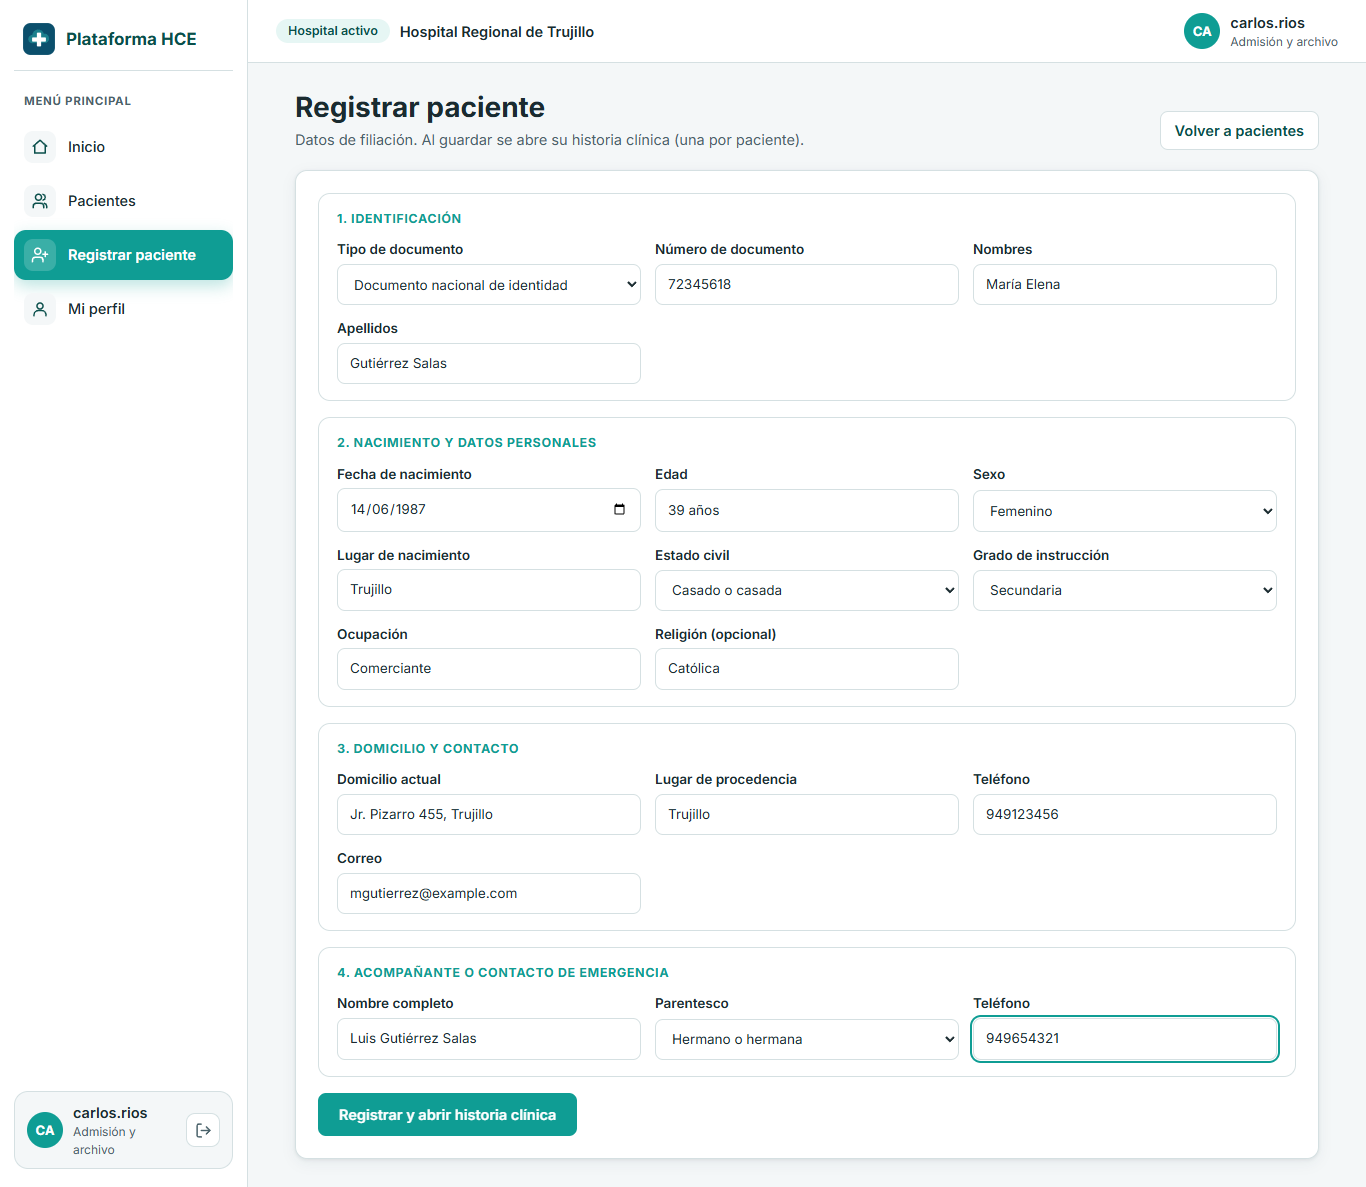
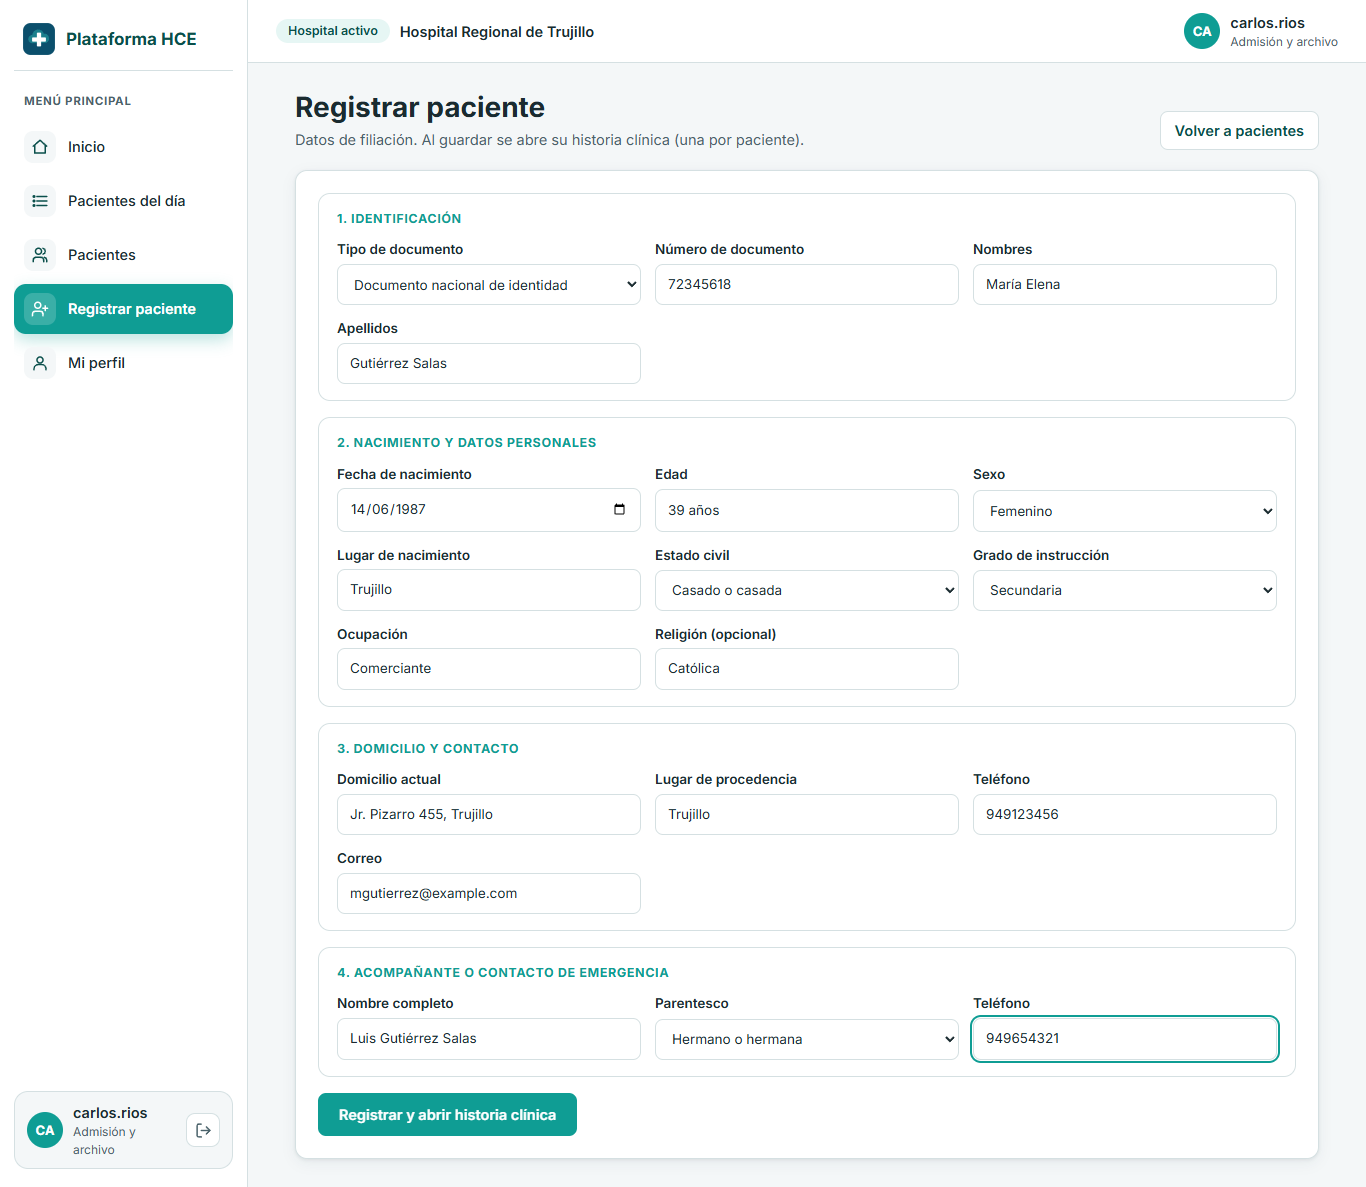
Plan v3 2.2: cola de pacientes por rol, pantalla P-09 con la emergencia primero (RF-22; CU-20, CU-21; RN-13, RN-06)
- /cola/: cifras por estado, pestanas, busqueda, orden con la emergencia primero, tiempo de espera y acciones por rol.
- Menu: Pacientes del dia (admision) y Cola de pacientes (enfermeria y medico); el Inicio de esos roles muestra la cola.
- Enfermeria toma al paciente desde la cola; admision cancela antes de que lo tomen.
- e2e/recorrido.mjs pasos 4 y 5 (verifica que la emergencia va primero).

Changed region(s): [[0.0, 0.1559, 0.1845, 0.3117]]

diff --git a/src/main/resources/static/cola/cola.js b/src/main/resources/static/cola/cola.js
@@ -1,0 +1,160 @@
+/* P-09 Cola de pacientes del dia (RF-22; CU-20, CU-21; RN-13, RN-06). Referencia 05.
+   El servidor decide que estados ve cada rol y el orden (emergencia primero, luego por llegada).
+   Las acciones solo llaman al servidor; el orden de los estados lo impone el dominio (RN-13). */
+const $ = (id) => document.getElementById(id);
+const ESTADOS = {
+  ADMITIDO: 'Admitidos', EN_ENFERMERIA: 'En enfermería', LISTO_PARA_ATENCION: 'Listos para atención',
+  EN_ATENCION: 'En atención', ATENCION_CERRADA: 'Atendidos', CANCELADO: 'Cancelados'
+};
+const POR_ROL = {
+  ADMISION: { titulo: 'Pacientes del día', subtitulo: 'Todos los admitidos hoy y en qué paso van.',
+    estados: ['ADMITIDO', 'EN_ENFERMERIA', 'LISTO_PARA_ATENCION', 'EN_ATENCION', 'ATENCION_CERRADA'] },
+  ENFERMERIA: { titulo: 'Cola de enfermería', subtitulo: 'Toma al siguiente paciente y registra sus signos vitales. La emergencia va primero.',
+    estados: ['ADMITIDO', 'EN_ENFERMERIA'] },
+  MEDICO: { titulo: 'Cola de atención', subtitulo: 'Pacientes listos para ser atendidos. La emergencia va primero.',
+    estados: ['LISTO_PARA_ATENCION', 'EN_ATENCION'] }
+};
+let sesion = null;
+let cola = [];
+let filtro = 'todos';
+
+function normalizar(t) { return String(t || '').normalize('NFD').replace(/[̀-ͯ]/g, '').toLowerCase(); }
+
+function minutosDesde(fecha) {
+  const m = Math.max(0, Math.round((Date.now() - new Date(fecha).getTime()) / 60000));
+  if (m < 60) return m + ' min';
+  return Math.floor(m / 60) + ' h ' + (m % 60) + ' min';
+}
+
+function hora(fecha) {
+  return new Date(fecha).toLocaleTimeString('es-PE', { hour: '2-digit', minute: '2-digit' });
+}
+
+async function accion(ruta, mensajeOk, despues) {
+  const r = await HCE.api(ruta, { method: 'POST' });
+  if (!r.ok) { HCE.mostrar($('mensaje'), (r.cuerpo && r.cuerpo.mensaje) || 'No se pudo completar la acción.', 'error'); return; }
+  HCE.mostrar($('mensaje'), mensajeOk, 'ok');
+  if (despues) { despues(r.cuerpo); return; }
+  await cargar();
+}
+
+function boton(texto, clase, alHacerClic) {
+  const b = HCE.el('button', 'hce-boton pequeno ' + clase, texto);
+  b.type = 'button';
+  b.addEventListener('click', alHacerClic);
+  return b;
+}
+
+function enlace(texto, clase, href) {
+  const a = HCE.el('a', 'hce-boton pequeno ' + clase, texto);
+  a.href = href;
+  return a;
+}
+
+function accionesDe(a) {
+  const g = HCE.el('div', 'hce-acciones-fila');
+  const historia = '/historia/?id=' + encodeURIComponent(a.idHistoriaClinica) + '&admision=' + encodeURIComponent(a.id);
+  const rol = sesion.rolCodigo;
+  if (rol === 'ENFERMERIA' && a.estado === 'ADMITIDO') {
+    g.append(boton('Tomar paciente', 'primario', () => accion('/api/admisiones/' + a.id + '/toma',
+      a.paciente + ' pasó a enfermería.', () => { window.location.href = historia; })));
+  } else if (rol === 'ENFERMERIA' && a.estado === 'EN_ENFERMERIA') {
+    g.append(enlace('Signos vitales', 'primario', historia));
+  } else if (rol === 'MEDICO' && (a.estado === 'LISTO_PARA_ATENCION' || a.estado === 'EN_ATENCION')) {
+    g.append(enlace('Ver historia', 'primario', historia));
+  } else if (rol === 'ADMISION' && a.estado === 'ADMITIDO') {
+    g.append(boton('Cancelar', 'claro', async () => {
+      const ok = await HCE.confirmar('¿Cancelar la admisión de ' + a.paciente + '?',
+        'Solo se puede cancelar antes de que enfermería lo tome. Queda registrado.', 'Sí, cancelar');
+      if (ok) accion('/api/admisiones/' + a.id + '/cancelacion', 'Se canceló la admisión de ' + a.paciente + '.');
+    }));
+  }
+  return g;
+}
+
+function dibujarCifras(config) {
+  const cont = $('cifras');
+  cont.replaceChildren();
+  const clases = { ADMITIDO: '', EN_ENFERMERIA: 'alerta', LISTO_PARA_ATENCION: 'ok', EN_ATENCION: '', ATENCION_CERRADA: '' };
+  config.estados.forEach(e => {
+    const t = HCE.el('article', 'hce-cifra-estado ' + (clases[e] || ''));
+    t.append(HCE.el('div', 'titulo', ESTADOS[e]), HCE.el('div', 'valor', String(cola.filter(a => a.estado === e).length)),
+      HCE.el('div', 'nota', e === 'ADMITIDO' ? 'Esperan a enfermería' : e === 'LISTO_PARA_ATENCION' ? 'Esperan al médico' : 'Hoy'));
+    cont.append(t);
+  });
+  const emergencias = cola.filter(a => a.tipoAtencion === 'EMERGENCIA' && a.estado !== 'ATENCION_CERRADA' && a.estado !== 'CANCELADO').length;
+  const t = HCE.el('article', 'hce-cifra-estado error');
+  t.append(HCE.el('div', 'titulo', 'Emergencias'), HCE.el('div', 'valor', String(emergencias)), HCE.el('div', 'nota', 'En espera o en atención'));
+  cont.append(t);
+  const p = $('pestanas');
+  p.replaceChildren();
+  [{ clave: 'todos', texto: 'Todos' }].concat(config.estados.map(e => ({ clave: e, texto: ESTADOS[e] }))).forEach(f => {
+    const b = HCE.el('button', 'hce-pestana' + (f.clave === filtro ? ' activa' : ''));
+    b.type = 'button';
+    const n = f.clave === 'todos' ? cola.length : cola.filter(a => a.estado === f.clave).length;
+    b.append(document.createTextNode(f.texto + ' '), HCE.el('span', 'cuenta', String(n)));
+    b.addEventListener('click', () => { filtro = f.clave; dibujarCifras(config); dibujarTabla(); });
+    p.append(b);
+  });
+}
+
+function dibujarTabla() {
+  const q = normalizar($('buscar').value.trim());
+  const lista = cola.filter(a => filtro === 'todos' || a.estado === filtro)
+    .filter(a => !q || normalizar([a.paciente, a.nroDocumento, a.nroHc].join(' ')).includes(q));
+  const cuerpo = $('cuerpo');
+  cuerpo.replaceChildren();
+  lista.forEach((a, i) => {
+    const tr = document.createElement('tr');
+    if (a.tipoAtencion === 'EMERGENCIA') tr.className = 'hce-fila-emergencia';
+    const persona = HCE.el('td');
+    const caja = HCE.el('div', 'hce-persona');
+    const partes = a.paciente.split(',');
+    const texto = HCE.el('div');
+    const edad = HCE.edad(a.fechaNacimiento);
+    texto.append(HCE.el('div', 'nombre', a.paciente),
+      HCE.el('div', 'nota', a.nroHc + ' · ' + edad + ' años · ' + (a.sexo === 'F' ? 'Femenino' : 'Masculino')));
+    caja.append(HCE.el('span', 'hce-avatar-mini', HCE.iniciales(partes[1], partes[0])), texto);
+    persona.append(caja);
+    const tipo = HCE.el('td');
+    tipo.append(HCE.el('span', 'hce-chip ' + (a.tipoAtencion === 'EMERGENCIA' ? 'emergencia' : 'info'),
+      a.tipoAtencion === 'EMERGENCIA' ? 'Emergencia' : 'Consulta externa'));
+    const estado = HCE.el('td');
+    estado.append(HCE.el('span', 'hce-chip estado-' + a.estado, a.estadoDescripcion));
+    const acciones = HCE.el('td', 'derecha');
+    acciones.append(accionesDe(a));
+    const activo = a.estado !== 'ATENCION_CERRADA' && a.estado !== 'CANCELADO';
+    tr.append(HCE.el('td', 'hce-orden', String(i + 1)), persona, tipo, estado, HCE.el('td', 'hce-nowrap', hora(a.fechaHoraAdmision)),
+      HCE.el('td', 'hce-nowrap', activo ? minutosDesde(a.fechaHoraEstado) : '·'), acciones);
+    cuerpo.append(tr);
+  });
+  const vacio = $('vacio');
+  vacio.hidden = lista.length > 0;
+  vacio.textContent = cola.length === 0
+    ? (sesion.rolCodigo === 'ADMISION' ? 'Aún no hay pacientes admitidos hoy. Admítelos desde Pacientes.'
+      : 'No hay pacientes esperando. Cuando admisión admita a alguien, aparecerá aquí.')
+    : 'No hay pacientes que coincidan.';
+}
+
+async function cargar() {
+  const r = await HCE.api('/api/admisiones/cola');
+  if (!r.ok) { HCE.mostrar($('mensaje'), (r.cuerpo && r.cuerpo.mensaje) || 'No se pudo cargar la cola.', 'error'); return; }
+  cola = r.cuerpo;
+  const config = POR_ROL[sesion.rolCodigo] || POR_ROL.ADMISION;
+  dibujarCifras(config);
+  dibujarTabla();
+  $('actualizado').textContent = 'Actualizado ' + hora(new Date());
+}
+
+$('buscar').addEventListener('input', dibujarTabla);
+$('actualizar').addEventListener('click', cargar);
+
+(async () => {
+  sesion = await HCE.iniciarPantalla();
+  if (!sesion) return;
+  const config = POR_ROL[sesion.rolCodigo] || POR_ROL.ADMISION;
+  $('titulo').textContent = config.titulo;
+  $('subtitulo').textContent = config.subtitulo;
+  await cargar();
+  setInterval(cargar, 30000); // la cola cambia sola: se refresca cada 30 segundos
+})();

diff --git a/src/main/resources/static/inicio/inicio.js b/src/main/resources/static/inicio/inicio.js
@@ -18,6 +18,7 @@ const ACCIONES = { // accion principal de cada rol, solo si el menu del servidor
   MEDICO: { clave: 'atencion', texto: 'Registrar atención' }
 };
 const DESCRIPCION_MENU = {
+  cola: 'Pacientes admitidos hoy y su estado',
   pacientes: 'Buscar pacientes y ver su estado',
   'registrar-paciente': 'Registrar un paciente y abrir su historia',
   historia: 'Consultar la historia clínica',
@@ -54,12 +55,37 @@ function dibujarAccesos(sesion) {
   }
 }
 
+/** RF-22: los primeros 5 de la cola del rol, con la emergencia primero (orden del servidor). */
+async function dibujarCola(sesion) {
+  if (!HCE.tieneOpcion(sesion, 'cola')) return;
+  const r = await HCE.api('/api/admisiones/cola');
+  if (!r.ok) return;
+  const activos = r.cuerpo.filter(a => a.estado !== 'ATENCION_CERRADA' && a.estado !== 'CANCELADO');
+  $('colaTitulo').textContent = (sesion.rolCodigo === 'ADMISION' ? 'Pacientes del día' : 'Tu cola de hoy') + ' · ' + activos.length + ' en espera';
+  const lista = $('colaLista');
+  activos.slice(0, 5).forEach((a, i) => {
+    const fila = HCE.el('a', 'hce-cola-fila' + (a.tipoAtencion === 'EMERGENCIA' ? ' emergencia' : ''));
+    fila.href = '/cola/';
+    const texto = HCE.el('div', 'texto');
+    texto.append(HCE.el('div', 'nombre', a.paciente), HCE.el('div', 'nota', a.nroHc + ' · llegó a las ' +
+      new Date(a.fechaHoraAdmision).toLocaleTimeString('es-PE', { hour: '2-digit', minute: '2-digit' })));
+    const chips = HCE.el('div', 'hce-fila-chips');
+    if (a.tipoAtencion === 'EMERGENCIA') chips.append(HCE.el('span', 'hce-chip emergencia', 'Emergencia'));
+    chips.append(HCE.el('span', 'hce-chip estado-' + a.estado, a.estadoDescripcion));
+    fila.append(HCE.el('span', 'hce-orden', String(i + 1)), texto, chips);
+    lista.append(fila);
+  });
+  $('colaVacia').hidden = activos.length > 0;
+  $('colaTarjeta').hidden = false;
+}
+
 (async () => {
   const sesion = await HCE.iniciarPantalla();
   if (!sesion) return;
   $('saludo').textContent = saludo() + ', ' + sesion.usuario;
   $('descripcionRol').textContent = TEXTOS[sesion.rolCodigo] || '';
   dibujarAccesos(sesion);
+  dibujarCola(sesion);
   // El administrador del hospital ve ademas el tablero con graficos (A-10, DEC-10). El servidor valida el rol (403).
   if (sesion.rolCodigo === 'ADMIN_HOSPITAL') TableroAdmin.dibujar();
   const r = await HCE.api('/api/indicadores/inicio');

diff --git a/src/main/resources/static/cola/index.html b/src/main/resources/static/cola/index.html
@@ -1,0 +1,45 @@
+<!DOCTYPE html>
+<html lang="es">
+<head>
+<meta charset="UTF-8">
+<meta name="viewport" content="width=device-width, initial-scale=1">
+<title>Cola de pacientes · Plataforma HCE</title>
+<link rel="icon" href="/logo.svg" type="image/svg+xml">
+<link rel="stylesheet" href="/css/estilo.css">
+</head>
+<body>
+<div class="hce-app" id="app">
+  <main class="hce-contenido" id="contenido">
+    <div class="hce-encabezado">
+      <div>
+        <h1 id="titulo">Cola de pacientes</h1>
+        <p class="hce-subtitulo" id="subtitulo">Pacientes admitidos hoy en tu hospital. La emergencia va primero.</p>
+      </div>
+      <div class="hce-acciones">
+        <span class="hce-subtitulo" id="actualizado"></span>
+        <button class="hce-boton claro" type="button" id="actualizar">Actualizar</button>
+      </div>
+    </div>
+    <div id="mensaje" class="hce-mensaje" role="status"></div>
+
+    <section class="hce-cifras-estado" id="cifras" aria-live="polite"></section>
+
+    <section class="hce-tarjeta hce-tarjeta-tabla">
+      <div class="hce-barra-tabla">
+        <div class="hce-pestanas" role="tablist" id="pestanas"></div>
+        <input id="buscar" class="hce-buscar" type="search" placeholder="Buscar por nombre, documento o historia" aria-label="Buscar en la cola" autocomplete="off">
+      </div>
+      <div class="hce-tabla-contenedor">
+        <table class="hce-tabla hce-tabla-limpia">
+          <thead><tr><th>Orden</th><th>Paciente</th><th>Tipo</th><th>Estado</th><th>Llegada</th><th>Esperando</th><th class="derecha">Acciones</th></tr></thead>
+          <tbody id="cuerpo"></tbody>
+        </table>
+        <div id="vacio" class="hce-vacio-caja hce-vacio-tabla" hidden></div>
+      </div>
+    </section>
+  </main>
+</div>
+<script src="/js/comun.js"></script>
+<script src="cola.js"></script>
+</body>
+</html>

diff --git a/src/main/resources/static/css/estilo.css b/src/main/resources/static/css/estilo.css
@@ -293,3 +293,16 @@ a.hce-boton { text-decoration: none; display: inline-block; }
   body.imprimiendo .hce-constancia { border: 1px solid #000; }
 }
 .hce-acciones-fila { display: inline-flex; gap: 8px; justify-content: flex-end; flex-wrap: wrap; }
+.hce-fila-emergencia { background: #fff6f5; }
+.hce-fila-emergencia td:first-child { box-shadow: inset 4px 0 0 var(--hce-error); }
+.hce-orden { font-weight: 700; color: var(--hce-texto-suave); width: 60px; }
+.hce-vacio-tabla { margin: 16px 18px 18px; }
+.hce-cola-mini { display: grid; gap: 8px; }
+.hce-cola-fila { display: flex; align-items: center; gap: 14px; padding: 10px 14px; border: 1px solid var(--hce-borde); border-radius: 12px; text-decoration: none; color: var(--hce-texto); }
+.hce-cola-fila:hover { border-color: var(--hce-primario); background: var(--hce-primario-claro); }
+.hce-cola-fila.emergencia { border-left: 4px solid var(--hce-error); }
+.hce-cola-fila .texto { flex: 1; }
+.hce-cola-fila .nombre { font-weight: 600; }
+.hce-cola-fila .nota { font-size: 12.5px; color: var(--hce-texto-suave); }
+.hce-cola-fila .hce-orden { width: auto; }
+.hce-nowrap, .hce-tabla-limpia .hce-boton { white-space: nowrap; }

diff --git a/src/main/resources/static/js/comun.js b/src/main/resources/static/js/comun.js
@@ -5,6 +5,7 @@ const HCE = (() => {
   /* Iconos propios por clave de menu (no vienen del usuario, por eso se pueden insertar como HTML). */
   const ICONOS = {
     inicio: SVG('<path d="M3 11l9-8 9 8"/><path d="M5 10v10h14V10"/>'),
+    cola: SVG('<path d="M8 6h13"/><path d="M8 12h13"/><path d="M8 18h13"/><circle cx="4" cy="6" r="1"/><circle cx="4" cy="12" r="1"/><circle cx="4" cy="18" r="1"/>'),
     pacientes: SVG('<path d="M17 21v-2a4 4 0 0 0-4-4H7a4 4 0 0 0-4 4v2"/><circle cx="10" cy="7" r="4"/><path d="M21 21v-2a4 4 0 0 0-3-3.87"/><path d="M16 3.13a4 4 0 0 1 0 7.75"/>'),
     'registrar-paciente': SVG('<path d="M16 21v-2a4 4 0 0 0-4-4H6a4 4 0 0 0-4 4v2"/><circle cx="9" cy="7" r="4"/><path d="M19 8v6"/><path d="M22 11h-6"/>'),
     historia: SVG('<path d="M14 3H6a2 2 0 0 0-2 2v14a2 2 0 0 0 2 2h12a2 2 0 0 0 2-2V9z"/><path d="M14 3v6h6"/><path d="M8 13h8"/><path d="M8 17h5"/>'),

diff --git a/src/main/resources/static/inicio/index.html b/src/main/resources/static/inicio/index.html
@@ -32,6 +32,16 @@
       </aside>
     </section>
 
+    <!-- RF-22: la cola de hoy en el Inicio de admision, enfermeria y medico -->
+    <section class="hce-tarjeta" id="colaTarjeta" hidden>
+      <div class="hce-evento-cabecera">
+        <h2 id="colaTitulo">Cola de hoy</h2>
+        <a class="hce-boton claro pequeno" href="/cola/">Ver la cola completa</a>
+      </div>
+      <div id="colaLista" class="hce-cola-mini"></div>
+      <div id="colaVacia" class="hce-vacio-caja" hidden>No hay pacientes esperando en este momento.</div>
+    </section>
+
     <!-- Tablero del administrador del hospital (A-10): lo llena inicio/admin.js -->
     <div id="tablero" class="hce-tablero" hidden>
       <section class="hce-tarjeta"><h2>Atenciones por día <span class="hce-subtitulo">· últimos 14 días</span></h2><div id="graficoAtenciones"></div></section>

diff --git a/src/main/java/pe/edu/ucv/hce/aplicacion/MenuService.java b/src/main/java/pe/edu/ucv/hce/aplicacion/MenuService.java
@@ -15,6 +15,9 @@ import pe.edu.ucv.hce.dominio.Usuario;
 public class MenuService {
 
     private static final ItemMenu INICIO = new ItemMenu("inicio", "Inicio", "/inicio/");
+    /** RF-22 (plan v3): cola del dia. Admision la ve como "Pacientes del dia"; enfermeria y medico como su cola. */
+    private static final ItemMenu COLA_ADMISION = new ItemMenu("cola", "Pacientes del día", "/cola/");
+    private static final ItemMenu COLA_CLINICA = new ItemMenu("cola", "Cola de pacientes", "/cola/");
     private static final ItemMenu PACIENTES = new ItemMenu("pacientes", "Pacientes", "/pacientes/");
     private static final ItemMenu REGISTRAR_PACIENTE =
         new ItemMenu("registrar-paciente", "Registrar paciente", "/pacientes/nuevo.html");
@@ -35,13 +38,13 @@ public class MenuService {
 
     private List<ItemMenu> opcionesDe(Usuario usuario) {
         if (usuario.tieneRol(CodigoRol.ADMISION)) {
-            return List.of(INICIO, PACIENTES, REGISTRAR_PACIENTE);
+            return List.of(INICIO, COLA_ADMISION, PACIENTES, REGISTRAR_PACIENTE);
         }
         if (usuario.tieneRol(CodigoRol.MEDICO)) {
-            return List.of(INICIO, PACIENTES, HISTORIA, ATENCION);
+            return List.of(INICIO, COLA_CLINICA, PACIENTES, HISTORIA, ATENCION);
         }
         if (usuario.tieneRol(CodigoRol.ENFERMERIA)) {
-            return List.of(INICIO, PACIENTES, HISTORIA);
+            return List.of(INICIO, COLA_CLINICA, PACIENTES, HISTORIA);
         }
         if (usuario.tieneRol(CodigoRol.PACIENTE)) {
             return List.of(MI_HISTORIAL, CONSENTIMIENTO);

diff --git a/src/test/java/pe/edu/ucv/hce/aplicacion/MenuServiceTest.java b/src/test/java/pe/edu/ucv/hce/aplicacion/MenuServiceTest.java
@@ -34,12 +34,12 @@ class MenuServiceTest {
 
     @Test
     void admisionRegistraYBuscaPacientes() {
-        assertEquals(List.of("inicio", "pacientes", "registrar-paciente", "perfil"), claves("admision.a"));
+        assertEquals(List.of("inicio", "cola", "pacientes", "registrar-paciente", "perfil"), claves("admision.a"));
     }
 
     @Test
     void medicoAtiendeYVeHistorias() {
-        assertEquals(List.of("inicio", "pacientes", "historia", "atencion", "perfil"), claves("medico.a"));
+        assertEquals(List.of("inicio", "cola", "pacientes", "historia", "atencion", "perfil"), claves("medico.a"));
     }
 
     /** RN-02: enfermeria ve historias pero no tiene "Registrar atencion". */

diff --git a/src/main/java/pe/edu/ucv/hce/presentacion/ConfigWeb.java b/src/main/java/pe/edu/ucv/hce/presentacion/ConfigWeb.java
@@ -13,7 +13,7 @@ public class ConfigWeb implements WebMvcConfigurer {
 
     private static final String[] PANTALLAS = {
         "inicio", "pacientes", "historia", "atencion", "mi-historial", "consentimiento", "auditoria", "hospitales",
-        "perfil", "login", "cambiar-clave", "usuarios"
+        "perfil", "login", "cambiar-clave", "usuarios", "cola"
     };
 
     @Override

diff --git a/DECISIONES_PENDIENTES.md b/DECISIONES_PENDIENTES.md
@@ -44,3 +44,6 @@ Decisiones tomadas durante el trabajo autónomo del plan v3. Cada una es la opci
 | D-28 | 2.1 | "Una admisión activa hoy" = admitida desde las 00:00 del día y en un estado distinto de cerrada o cancelada. Tras cerrar o cancelar, se puede admitir otra vez el mismo día | CU-20 alternativo |
 | D-29 | 2.1 | Admitir (P-10) es un diálogo con dos opciones en la lista de pacientes (P-02); la lista muestra el estado de hoy de cada paciente y pestañas "Admitidos hoy" y "Sin admitir hoy" solo para admisión | `docs/recorrido.md`: P-10 es un diálogo dentro de P-02 |
 | D-30 | 2.1 | Se agregaron los permisos `ADMITIR_PACIENTE` (RF-21, admisión), `VER_COLA` (RF-22, admisión, enfermería y médico) y `REGISTRAR_SIGNOS_VITALES` (RF-23, enfermería) | Columna "Actor" de `requisitos_nuevos.md` |
+| D-31 | 2.2 | La cola (P-09) es una pantalla propia `/cola/` en el menú de admisión ("Pacientes del día"), enfermería y médico ("Cola de pacientes"), y además el Inicio de esos roles muestra los primeros 5 | `docs/recorrido.md` pone la cola como inicio propio de esos roles |
+| D-32 | 2.2 | Admisión ve todos los estados del día; enfermería ve "admitido" y "en enfermería"; el médico ve "listo para atención" y "en atención". La cola se refresca sola cada 30 segundos | RF-22 "según el rol" |
+| D-33 | 2.2 | En la cola, el médico tiene por ahora "Ver historia"; iniciar la atención desde la cola (LISTO → EN_ATENCION) se conecta en R3 con CU-05 ampliado | R3 está fuera de este checklist |

diff --git a/PROGRESO.md b/PROGRESO.md
@@ -21,7 +21,7 @@ Las decisiones tomadas sin respaldo en los documentos están en `DECISIONES_PEND
 - [x] 1.5 `e2e/recorrido.mjs` recorre los pasos 1 a 3 con verificaciones (`ok:`) y capturas `paso1_*` a `paso3_*`; `npm run recorrido -- 3`; instrucciones en `e2e/LEEME.md`. Commit `e358b35`.
 
 ## R2 Recepción
-- [ ] 2.1 Admisión y estados RN-13 (CU-20), un test por transición permitida y prohibida.
+- [x] 2.1 CU-20: entidad `Admision` y `EstadoAdmision` (RN-13 en el dominio), `/api/admisiones`, diálogo Admitir en P-02; `EstadoAdmisionTest` (5 transiciones permitidas y 31 prohibidas) y `AdmisionServiceTest` (7). Commit `c603782`.
 - [ ] 2.2 Cola por rol (P-09, RF-22); emergencia primero.
 - [ ] 2.3 Signos vitales (CU-21, RN-17) y antecedentes por tipo dentro de P-04.
 - [ ] 2.4 Script Playwright de los pasos 1 a 5.
